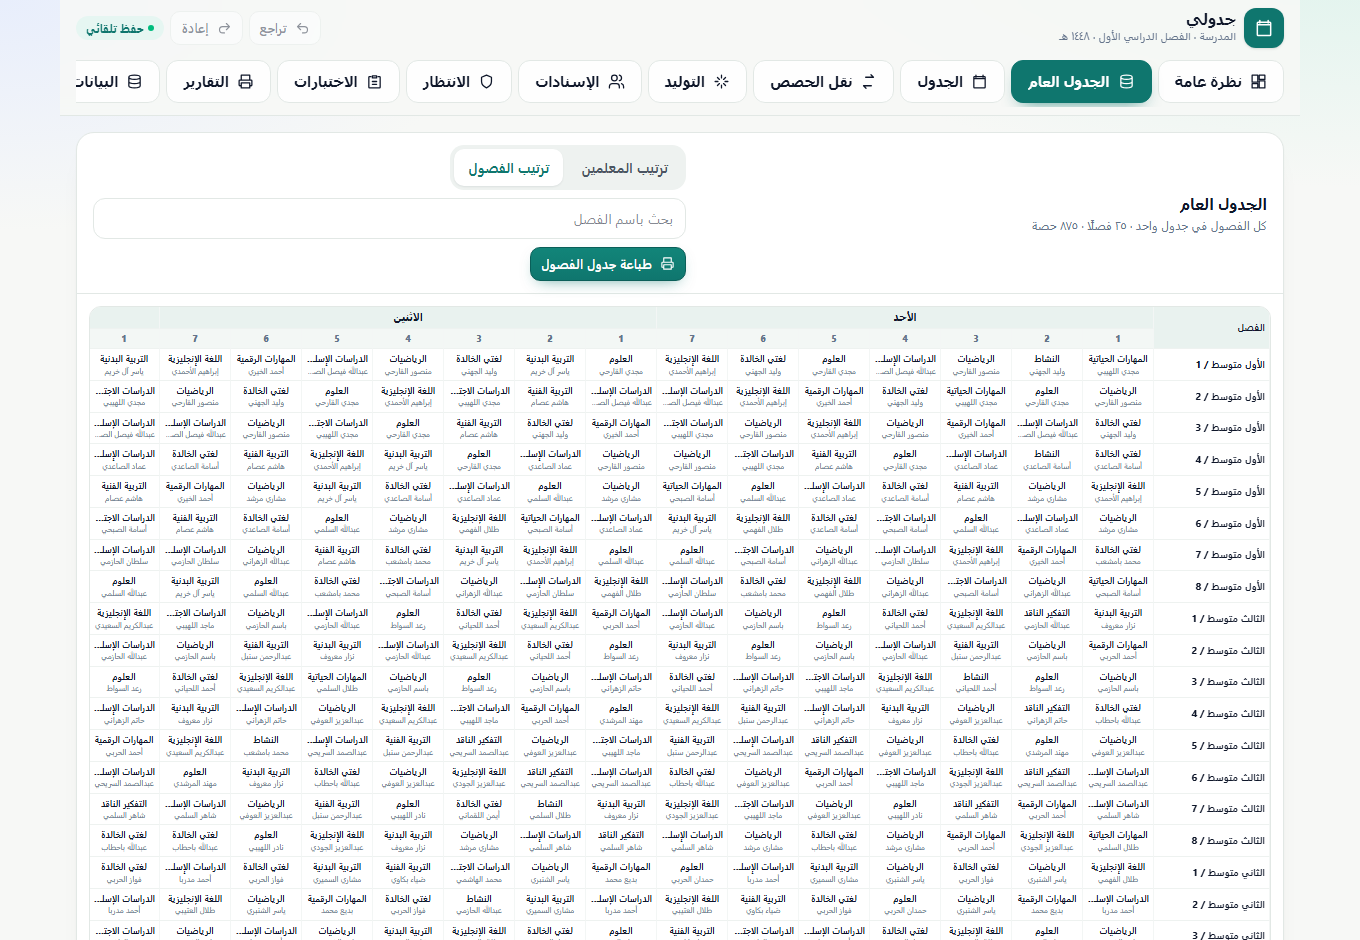
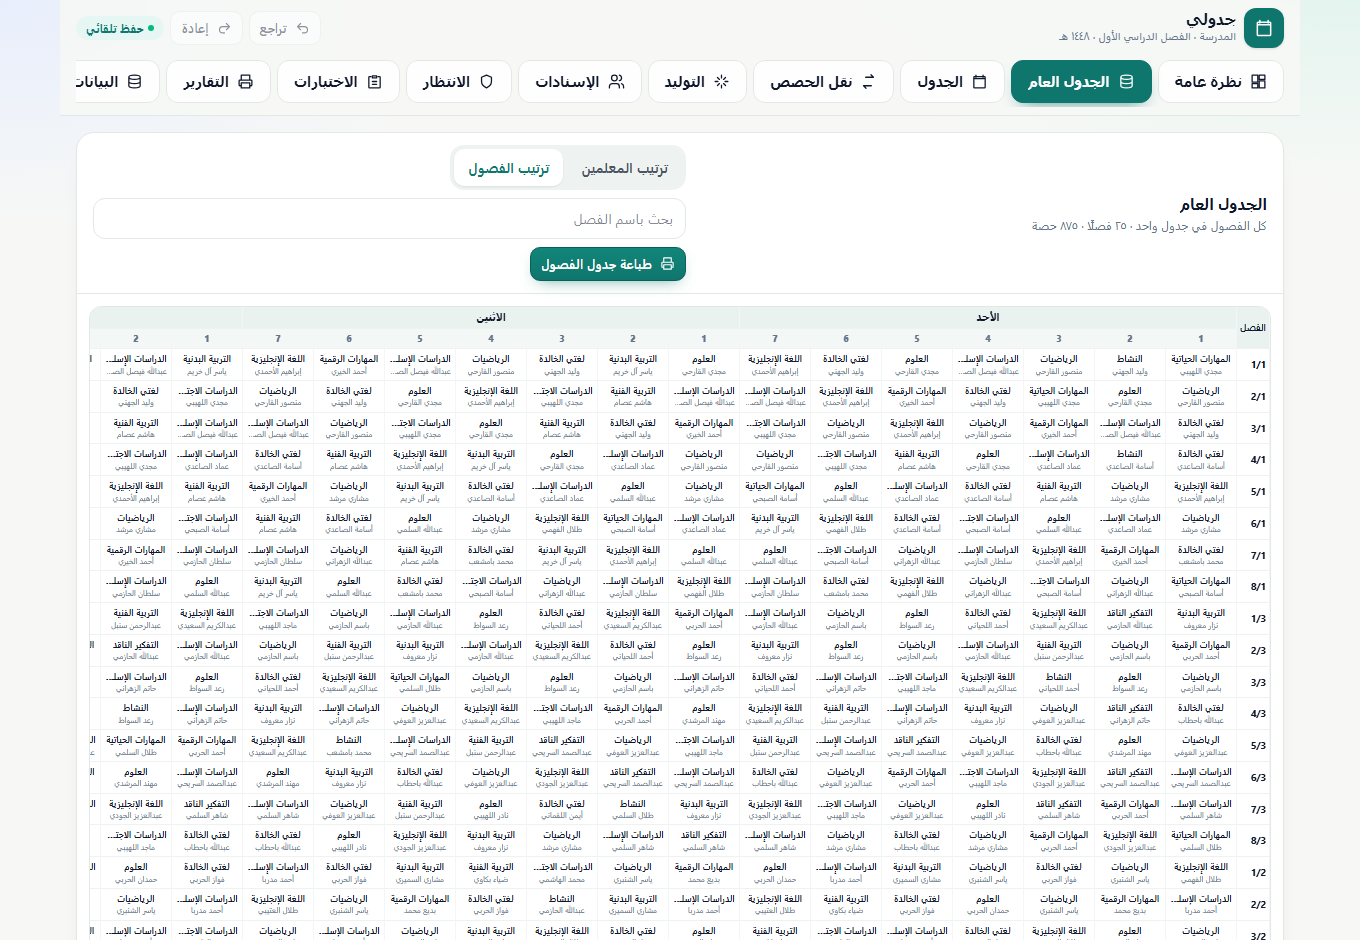
الجدول العام: اختصار أسماء الفصول (فصل/صف) وأسماء المعلمين في سطرين مع تضييق العمود

Changed region(s): [[0.0618, 0.3702, 0.9265, 1.0]]

diff --git a/src/components/MasterTable.tsx b/src/components/MasterTable.tsx
@@ -1,6 +1,6 @@
 import { useLayoutEffect, useRef, useState, type ReactNode } from 'react';
 import type { SchoolData } from '../types';
-import { DAY_NAMES, lessonTeacherId } from '../lib/model';
+import { DAY_NAMES, gradeOf, lessonTeacherId } from '../lib/model';
 
 export type MasterMode = 'teacher' | 'class';
 
@@ -55,6 +55,20 @@ export function masterRows(data: SchoolData, mode: MasterMode, query = ''): Row[
   return rows;
 }
 
+/** اسم الفصل المختصر: «الثالث متوسط / 1» ← «1/3» (رقم الفصل / رقم الصف). */
+export function shortClassName(name: string): string {
+  const grade = gradeOf(name);
+  const number = name.match(/(\d+)\s*$/)?.[1];
+  if (grade === null || !number) return name;
+  return `${number}/${grade}`;
+}
+
+/** اسم المعلم في سطرين: الاسم الأول، ثم بقية الاسم. */
+export function teacherNameLines(name: string): [string, string] {
+  const [first, ...rest] = name.trim().split(/\s+/);
+  return [first ?? '', rest.join(' ')];
+}
+
 export function MasterTable({
   data,
   mode,
@@ -72,7 +86,7 @@ export function MasterTable({
 
   return (
     <div className={print ? 'master-print' : 'master-scroll'}>
-      <table className="master-table">
+      <table className={`master-table master--${mode}`}>
         <thead>
           <tr>
             <th rowSpan={2} className="name-col">
@@ -97,7 +111,16 @@ export function MasterTable({
         <tbody>
           {rows.map((row) => (
             <tr key={row.id}>
-              <th className="name-col">{row.name}</th>
+              <th className="name-col" title={row.name}>
+                {mode === 'class' ? (
+                  shortClassName(row.name)
+                ) : (
+                  <>
+                    <span className="name-line">{teacherNameLines(row.name)[0]}</span>
+                    <span className="name-line">{teacherNameLines(row.name)[1]}</span>
+                  </>
+                )}
+              </th>
               {DAY_NAMES.slice(0, data.days).flatMap((day, dayIndex) =>
                 periods.map((period) => {
                   const cell = row.cells.get(`${dayIndex}:${period}`);

diff --git a/tests/master.test.ts b/tests/master.test.ts
@@ -2,7 +2,7 @@ import { describe, expect, it } from 'vitest';
 import raw from '../src/data/school.json';
 import type { SchoolData } from '../src/types';
 import { lessonTeacherId, normalizeData } from '../src/lib/model';
-import { masterRows } from '../src/components/MasterTable';
+import { masterRows, shortClassName, teacherNameLines } from '../src/components/MasterTable';
 
 const data = normalizeData(raw as unknown as SchoolData);
 
@@ -33,5 +33,16 @@ describe('الجدول العام', () => {
     const cell = [...rows[0].cells.values()][0];
     expect(cell.subject.length).toBeGreaterThan(0);
     expect(cell.meta.length).toBeGreaterThan(0);
+  });
+
+  it('يختصر أسماء الفصول إلى رقم الفصل/الصف', () => {
+    expect(shortClassName('الأول متوسط / 1')).toBe('1/1');
+    expect(shortClassName('الثالث متوسط / 1')).toBe('1/3');
+    expect(shortClassName('الثاني متوسط / 8')).toBe('8/2');
+  });
+
+  it('يقسم اسم المعلم إلى سطرين', () => {
+    expect(teacherNameLines('إبراهيم الأحمدي')).toEqual(['إبراهيم', 'الأحمدي']);
+    expect(teacherNameLines('عبدالله فيصل الصاعدي')).toEqual(['عبدالله', 'فيصل الصاعدي']);
   });
 });

diff --git a/src/styles.css b/src/styles.css
@@ -96,11 +96,32 @@ body {
   background: #fff;
   text-align: right;
   font-weight: 700;
-  font-size: 10px;
-  min-width: 116px;
-  max-width: 150px;
+  font-size: 9px;
+  line-height: 1.12;
+  padding: 2px 3px;
+  min-width: 40px;
+  max-width: 64px;
+  overflow: hidden;
+}
+
+.master-table.master--teacher .name-col {
+  min-width: 52px;
+  max-width: 60px;
+  font-size: 8.5px;
+}
+
+.master-table.master--class .name-col {
+  min-width: 32px;
+  max-width: 38px;
+  font-size: 9.5px;
+}
+
+.name-line {
+  display: block;
+  white-space: nowrap;
   overflow: hidden;
   text-overflow: ellipsis;
+  line-height: 1.15;
 }
 
 .master-table thead .name-col {
@@ -155,10 +176,25 @@ body {
 }
 
 .master-print .name-col {
-  width: 26mm;
-  max-width: 26mm;
-  font-size: 7.5px;
   position: static;
+  width: 12mm;
+  min-width: 12mm;
+  max-width: 12mm;
+  font-size: 6.5px;
+  padding: 1px 2px;
+}
+
+.master-print .master--class .name-col {
+  width: 8mm;
+  min-width: 8mm;
+  max-width: 8mm;
+  font-size: 7px;
+}
+
+.master-print .master--teacher .name-col {
+  width: 13mm;
+  min-width: 13mm;
+  max-width: 13mm;
 }
 
 .master-print .master-subject {
@@ -658,3 +694,4 @@ body {
     font-size: 11px;
   }
 }
+
